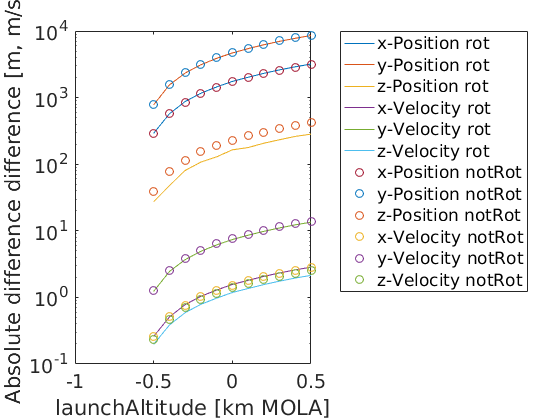
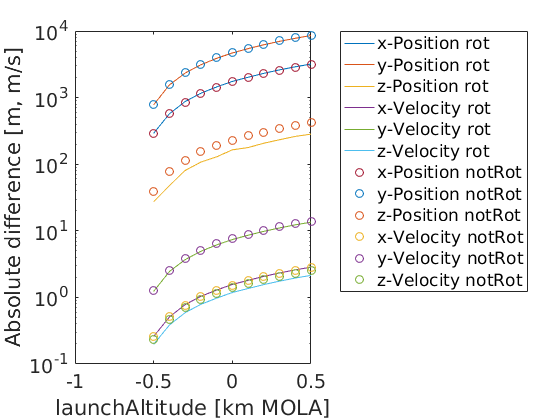
Result figures updated and added

Changed region(s): [[0.0, 0.0, 0.0607, 0.9595]]

diff --git a/04.VerificationAndValidation/04.DifferentVariables/Plots/combRotAndNotRotMars/plotGeneratorVariablesVersion13ComblaunchAltitudeCase1.m b/04.VerificationAndValidation/04.DifferentVariables/Plots/combRotAndNotRotMars/plotGeneratorVariablesVersion13ComblaunchAltitudeCase1.m
@@ -580,7 +580,7 @@ hold on
 
 %title(['Absolute differences w.r.t. the nominal case for every ',currentVariableFolder]); % Give the figure a title
 xlabel([currentVariableFolder,' ',currentVariableUnit]); % Label the different axes
-ylabel('Absolute difference difference [m, m/s]');
+ylabel('Absolute difference [m, m/s]');
 
 legend('x-Position rot','y-Position rot','z-Position rot','x-Velocity rot','y-Velocity rot','z-Velocity rot','x-Position notRot','y-Position notRot','z-Position notRot','x-Velocity notRot','y-Velocity notRot','z-Velocity notRot','Location','NorthEastOutside'); % Add a legend in the top right corner
 set(gca,'FontSize',14);  % Make sure that the graph font size is 14
@@ -603,7 +603,7 @@ hold on
 
 %title(['Absolute differences w.r.t. the RKF case for every ',currentVariableFolder]); % Give the figure a title
 xlabel([currentVariableFolder,' ',currentVariableUnit]); % Label the different axes
-ylabel('Absolute difference difference [m, m/s]');
+ylabel('Absolute difference [m, m/s]');
 
 legend('x-Position rot','y-Position rot','z-Position rot','x-Velocity rot','y-Velocity rot','z-Velocity rot','x-Position notRot','y-Position notRot','z-Position notRot','x-Velocity notRot','y-Velocity notRot','z-Velocity notRot','Location','NorthEastOutside'); % Add a legend in the top right corner
 set(gca,'FontSize',14);  % Make sure that the graph font size is 14
@@ -1170,7 +1170,7 @@ scatter(currentVariable,zVelocityTSIdifference)
 
 %title(['Absolute differences w.r.t. the nominal case for every ',currentVariableFolder]); % Give the figure a title
 xlabel([currentVariableFolder,' ',currentVariableUnit]); % Label the different axes
-ylabel('Absolute difference difference [m, m/s]');
+ylabel('Absolute difference [m, m/s]');
 
 legend('x-Position rot','y-Position rot','z-Position rot','x-Velocity rot','y-Velocity rot','z-Velocity rot','x-Position notRot','y-Position notRot','z-Position notRot','x-Velocity notRot','y-Velocity notRot','z-Velocity notRot','Location','NorthEastOutside'); % Add a legend in the top right corner
 set(gca,'FontSize',14);  % Make sure that the graph font size is 14
@@ -1194,7 +1194,7 @@ scatter(currentVariable,zVelocityTSIdifferenceRKF)
 
 %title(['Absolute differences w.r.t. the RKF case for every ',currentVariableFolder]); % Give the figure a title
 xlabel([currentVariableFolder,' ',currentVariableUnit]); % Label the different axes
-ylabel('Absolute difference difference [m, m/s]');
+ylabel('Absolute difference [m, m/s]');
 
 legend('x-Position rot','y-Position rot','z-Position rot','x-Velocity rot','y-Velocity rot','z-Velocity rot','x-Position notRot','y-Position notRot','z-Position notRot','x-Velocity notRot','y-Velocity notRot','z-Velocity notRot','Location','NorthEastOutside'); % Add a legend in the top right corner
 set(gca,'FontSize',14);  % Make sure that the graph font size is 14

diff --git a/04.VerificationAndValidation/04.DifferentVariables/Plots/combRotAndNotRotMars/plotGeneratorVariablesVersion13ComblaunchAltitudeCase2.m b/04.VerificationAndValidation/04.DifferentVariables/Plots/combRotAndNotRotMars/plotGeneratorVariablesVersion13ComblaunchAltitudeCase2.m
@@ -580,7 +580,7 @@ hold on
 
 %title(['Absolute differences w.r.t. the nominal case for every ',currentVariableFolder]); % Give the figure a title
 xlabel([currentVariableFolder,' ',currentVariableUnit]); % Label the different axes
-ylabel('Absolute difference difference [m, m/s]');
+ylabel('Absolute difference [m, m/s]');
 
 legend('x-Position rot','y-Position rot','z-Position rot','x-Velocity rot','y-Velocity rot','z-Velocity rot','x-Position notRot','y-Position notRot','z-Position notRot','x-Velocity notRot','y-Velocity notRot','z-Velocity notRot','Location','NorthEastOutside'); % Add a legend in the top right corner
 set(gca,'FontSize',14);  % Make sure that the graph font size is 14
@@ -603,7 +603,7 @@ hold on
 
 %title(['Absolute differences w.r.t. the RKF case for every ',currentVariableFolder]); % Give the figure a title
 xlabel([currentVariableFolder,' ',currentVariableUnit]); % Label the different axes
-ylabel('Absolute difference difference [m, m/s]');
+ylabel('Absolute difference [m, m/s]');
 
 legend('x-Position rot','y-Position rot','z-Position rot','x-Velocity rot','y-Velocity rot','z-Velocity rot','x-Position notRot','y-Position notRot','z-Position notRot','x-Velocity notRot','y-Velocity notRot','z-Velocity notRot','Location','NorthEastOutside'); % Add a legend in the top right corner
 set(gca,'FontSize',14);  % Make sure that the graph font size is 14
@@ -1170,7 +1170,7 @@ scatter(currentVariable,zVelocityTSIdifference)
 
 %title(['Absolute differences w.r.t. the nominal case for every ',currentVariableFolder]); % Give the figure a title
 xlabel([currentVariableFolder,' ',currentVariableUnit]); % Label the different axes
-ylabel('Absolute difference difference [m, m/s]');
+ylabel('Absolute difference [m, m/s]');
 
 legend('x-Position rot','y-Position rot','z-Position rot','x-Velocity rot','y-Velocity rot','z-Velocity rot','x-Position notRot','y-Position notRot','z-Position notRot','x-Velocity notRot','y-Velocity notRot','z-Velocity notRot','Location','NorthEastOutside'); % Add a legend in the top right corner
 set(gca,'FontSize',14);  % Make sure that the graph font size is 14
@@ -1194,7 +1194,7 @@ scatter(currentVariable,zVelocityTSIdifferenceRKF)
 
 %title(['Absolute differences w.r.t. the RKF case for every ',currentVariableFolder]); % Give the figure a title
 xlabel([currentVariableFolder,' ',currentVariableUnit]); % Label the different axes
-ylabel('Absolute difference difference [m, m/s]');
+ylabel('Absolute difference [m, m/s]');
 
 legend('x-Position rot','y-Position rot','z-Position rot','x-Velocity rot','y-Velocity rot','z-Velocity rot','x-Position notRot','y-Position notRot','z-Position notRot','x-Velocity notRot','y-Velocity notRot','z-Velocity notRot','Location','NorthEastOutside'); % Add a legend in the top right corner
 set(gca,'FontSize',14);  % Make sure that the graph font size is 14

diff --git a/propagationTool.cpp b/propagationTool.cpp
@@ -177,8 +177,8 @@ int main()
      *  - headingAngle
      *  - groundVelocity
      *  - normalRun
-     *
-     *
+     *  - OriginalTestCaseData
+     *  - test              (USE AS DEFAULT!)
      *
      *
      *
@@ -258,7 +258,7 @@ int main()
     const double initialLatitudeDeg =       inputVectorValues(3);
     const double initialLongitudeDeg =      inputVectorValues(4);
 
-//    const double FlightPathAngleDeg =       inputVectorValues(5);
+    const double FlightPathAngleDeg =       inputVectorValues(5);
 //    const double FlightPathAngleDeg = 89;
 
     const double HeadingAngleDeg =          inputVectorValues(6);
@@ -282,9 +282,9 @@ int main()
     const double chosenStepSize =           inputVectorValues(16);
 
 
-//    const double setEndTime =               inputVectorValues(17);
+    const double setEndTime =               inputVectorValues(17);
 
-    const double setEndTime = 20000;        // Case for determination of when zero FPA is reached
+//    const double setEndTime = 20000;        // Case for determination of when zero FPA is reached
 
 
 //    const double setEndTime = 1796;         // End time for tests for Ryans case 1 (For state accuracy)
@@ -816,19 +816,19 @@ int main()
 
     const double numberOfRuns = 1; // These are the actual number of runs that are done
 //    const double maxOrder = 20;
-    const double FlightPathAngleDeg = 90;
+//    const double FlightPathAngleDeg = 90;
 //    const double setEndTime = 2;
 
-    Eigen::VectorXd differentEndTimes = Eigen::VectorXd::Zero(numberOfRuns);
+//    Eigen::VectorXd differentEndTimes = Eigen::VectorXd::Zero(numberOfRuns);
 
-    double kk = 17.0; // 14.25
-    double stepSizeLoop = 1.0;
-    for (int j = 0; j<numberOfRuns; j++){ // More efficient way to fill the vector
+//    double kk = 17.0; // 14.25
+//    double stepSizeLoop = 1.0;
+//    for (int j = 0; j<numberOfRuns; j++){ // More efficient way to fill the vector
 
-        differentEndTimes(j) = kk;
-        kk = kk+stepSizeLoop;
+//        differentEndTimes(j) = kk;
+//        kk = kk+stepSizeLoop;
 
-    }
+//    }
 
 
 
@@ -946,11 +946,11 @@ int main()
     /// Storing the output TSI
 
 
-//    outputMatrixTSI(run,0) = maxOrder;
+    outputMatrixTSI(run,0) = maxOrder;
 //    outputMatrixTSI(run,0) = chosenLocalErrorTolerance;
 //    outputMatrixTSI(run,0) = initialAltitude;
 //        outputMatrixTSI(run,0) = initialLatitudeDeg;
-        outputMatrixTSI(run,0) = FlightPathAngleDeg;
+//        outputMatrixTSI(run,0) = FlightPathAngleDeg;
 //        outputMatrixTSI(run,0) = HeadingAngleDeg;
     //    outputMatrixTSI(run,0) = initialGroundVelocity;
 //            outputMatrixTSI(run,0) = run+1;

diff --git a/04.VerificationAndValidation/04.DifferentVariables/Plots/combRotAndNotRotMars/plotGeneratorVariablesVersion11CombOrderCase2.m b/04.VerificationAndValidation/04.DifferentVariables/Plots/combRotAndNotRotMars/plotGeneratorVariablesVersion11CombOrderCase2.m
@@ -827,6 +827,33 @@ set(gca,'FontSize',14);  % Make sure that the graph font size is 14
 %  scatter(currentVariable_notRot,cpuTimeTSI_notRot);
 %  legend('Rotating','Non rotating','Location','NorthEastOutside'); % Add a legend in the top right corner
 
+
+
+%%%%% Combined graph data
+
+figure(14) % CPU time
+yyaxis left
+plot(currentVariable_rot,cpuTimeTSI_rot);
+
+
+xlabel([currentVariableFolder,' ',currentVariableUnit]); % Label the different axes
+ylabel('CPU time TSI [sec]');
+
+axis([min(currentVariable_rot) max(currentVariable_rot) 0.0 0.05]) % No live data collection
+% axis([min(currentVariable_rot)  max(currentVariable_rot) 0.08 0.16]) % Live data
+% collection
+
+
+
+set(gca,'FontSize',14);  % Make sure that the graph font size is 14
+
+
+yyaxis right
+semilogy(currentVariable_rot,functionEvaluationsTSI_rot)
+
+
+ylabel('Function evaluations [-]');
+
 toc
 
 

diff --git a/04.VerificationAndValidation/04.DifferentVariables/Plots/combRotAndNotRotMars/plotGeneratorVariablesVersion11CombOrderCase1.m b/04.VerificationAndValidation/04.DifferentVariables/Plots/combRotAndNotRotMars/plotGeneratorVariablesVersion11CombOrderCase1.m
@@ -807,6 +807,38 @@ legend('x-Position rot','y-Position rot','z-Position rot','x-Velocity rot','y-Ve
 
 set(gca,'FontSize',14);  % Make sure that the graph font size is 14
 
+
+
+
+
+%%%%% Combined graph data
+
+figure(14) % CPU time
+yyaxis left
+plot(currentVariable_rot,cpuTimeTSI_rot);
+
+
+xlabel([currentVariableFolder,' ',currentVariableUnit]); % Label the different axes
+ylabel('CPU time TSI [sec]');
+
+axis([min(currentVariable_rot) max(currentVariable_rot) 0.0 0.05]) % No live data collection
+% axis([min(currentVariable_rot) 90 0.05 0.1]) % Live data
+% collection
+
+
+
+set(gca,'FontSize',14);  % Make sure that the graph font size is 14
+
+
+yyaxis right
+semilogy(currentVariable_rot,functionEvaluationsTSI_rot)
+
+
+ylabel('Function evaluations [-]');
+
+
+
+
 toc
 
 

diff --git a/04.VerificationAndValidation/04.DifferentVariables/Plots/combRotAndNotRotMars/plotGeneratorVariablesVersion18CombheadingAngleCase2.m b/04.VerificationAndValidation/04.DifferentVariables/Plots/combRotAndNotRotMars/plotGeneratorVariablesVersion18CombheadingAngleCase2.m
@@ -542,8 +542,11 @@ STDadj = std(dummyVector); % Determine the new std (or adjusted, adj)
 legend('Rotating','Non rotating','Location','NorthEastOutside'); % Add a legend in the top right corner
 set(gca,'FontSize',14);  % Make sure that the graph font size is 14
 
-% ybounds = ylim();
-% set(gca, 'ytick', ybounds(1):1:ybounds(2));
+ybounds = ylim();
+set(gca, 'ytick', ybounds(1):1:ybounds(2));
+
+xbounds = xlim();
+set(gca, 'xtick', xbounds(1):100:xbounds(2));
 
 
 figure(10)

diff --git a/04.VerificationAndValidation/03.Validation/plotGeneratorTest2.m b/04.VerificationAndValidation/03.Validation/plotGeneratorTest2.m
@@ -68,6 +68,7 @@ end
 %% Get the data
 
 % Specify the paths
+pathToValidationFolder = 
 
 RKFpath = fullfile('02.Version2SecondValidationTest','backupRKFFileAtDateAndTime_2016-09-06_11:19:12.csv'); % Create the path for the RKF file
 TSIpath = fullfile('02.Version2SecondValidationTest','backupSpherical(Cart)TSIFileAtDateAndTime_2016-09-06_11:19:12.csv'); % Create the path for the TSI file

diff --git a/04.VerificationAndValidation/04.DifferentVariables/Plots/combRotAndNotRotMars/plotGeneratorVariablesVersion18CombheadingAngleCase1.m b/04.VerificationAndValidation/04.DifferentVariables/Plots/combRotAndNotRotMars/plotGeneratorVariablesVersion18CombheadingAngleCase1.m
@@ -545,6 +545,9 @@ set(gca,'FontSize',14);  % Make sure that the graph font size is 14
 % ybounds = ylim();
 % set(gca, 'ytick', ybounds(1):1:ybounds(2));
 
+xbounds = xlim();
+set(gca, 'xtick', xbounds(1):100:xbounds(2));
+
 
 figure(10)
 scatter(functionEvaluationsTSI,cpuTimeTSI)
